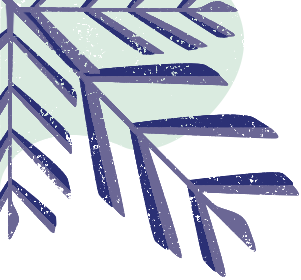
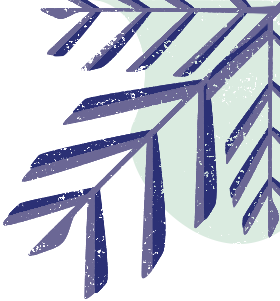
updated image in photoshop and reverted to old changes

diff --git a/src/views/Question.vue b/src/views/Question.vue
@@ -1,6 +1,5 @@
 <template>
   <div class="question-wrapper">
-    <div class="bg-img"><img src="../assets/other-3.png" /></div>
     <div class="question">
       <div class="question-category">{{ question.title }}</div>
       <div class="question-text">{{ question.questionText }}</div>
@@ -132,23 +131,16 @@ watch:{
   max-width: 960px;
   padding: 0 36px;
   margin: 0 auto;
+  margin-top: 218px;
 }
 
 .question-wrapper {
-  background-color: #DFE3E8; 
-  
-  padding-bottom: 200px;
-}
-
-.bg-img {
+  background-image: url(../assets/other-3.png);
   background-repeat: no-repeat;
   background-position: right top;
+  background-color: #DFE3E8; 
   overflow: hidden;
-  -moz-transform: scaleX(-1);
-  -o-transform: scaleX(-1);
-  transform: scaleX(-1);
-  filter: FlipH;
-  -ms-filter: "FlipH";
+  padding-bottom: 200px;
 }
 
 .question-category {
